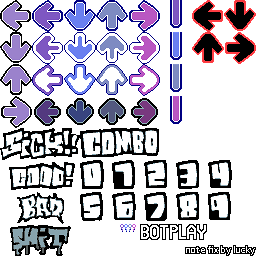
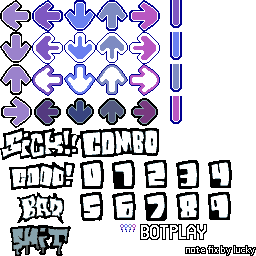
majin notes fixed

diff --git a/src/stage/stage.c b/src/stage/stage.c
@@ -883,7 +883,7 @@ static void Stage_DrawNotes(void)
 							note_dst.h = -note_dst.h;
 						}
 						
-                        if (stage.stage_id == StageId_Endless) //add steps later
+                        if ((stage.stage_id == StageId_Endless) && (stage.song_step >= 900))
                             Stage_DrawTex(&stage.tex_hudmajin, &note_src, &note_dst, stage.bump);
                         else
 				            Stage_DrawTex(&stage.tex_hud0, &note_src, &note_dst, stage.bump);
@@ -911,7 +911,7 @@ static void Stage_DrawNotes(void)
 						if (stage.prefs.downscroll)
 							note_dst.y = -note_dst.y - note_dst.h;
 						
-                        if (stage.stage_id == StageId_Endless) //add steps later
+                        if ((stage.stage_id == StageId_Endless) && (stage.song_step >= 900))
                             Stage_DrawTex(&stage.tex_hudmajin, &note_src, &note_dst, stage.bump);
                         else
 				            Stage_DrawTex(&stage.tex_hud0, &note_src, &note_dst, stage.bump);
@@ -938,7 +938,7 @@ static void Stage_DrawNotes(void)
 				if (stage.prefs.downscroll)
 					note_dst.y = -note_dst.y - note_dst.h;
                 
-                if (stage.stage_id == StageId_Endless) //add steps later
+                if ((stage.stage_id == StageId_Endless) && (stage.song_step >= 900))
                     Stage_DrawTex(&stage.tex_hudmajin, &note_src, &note_dst, stage.bump);
                 else
 				    Stage_DrawTex(&stage.tex_hud0, &note_src, &note_dst, stage.bump);
@@ -955,7 +955,7 @@ static void Stage_DrawNotes(void)
 					note_dst.y -= FIXED_DEC(6,1);
 					note_dst.h >>= 2;
 					
-                    if (stage.stage_id == StageId_Endless) //add steps later
+                    if ((stage.stage_id == StageId_Endless) && (stage.song_step >= 900))
                         Stage_DrawTex(&stage.tex_hudmajin, &note_src, &note_dst, stage.bump);
                     else
 				        Stage_DrawTex(&stage.tex_hud0, &note_src, &note_dst, stage.bump);
@@ -978,7 +978,7 @@ static void Stage_DrawNotes(void)
 						note_dst.h = note_dst.h * 3 / 2;
 					}
 					
-                    if (stage.stage_id == StageId_Endless) //add steps later
+                    if ((stage.stage_id == StageId_Endless) && (stage.song_step >= 900))
                         Stage_DrawTex(&stage.tex_hudmajin, &note_src, &note_dst, stage.bump);
                     else
 				        Stage_DrawTex(&stage.tex_hud0, &note_src, &note_dst, stage.bump);
@@ -1025,7 +1025,7 @@ static void Stage_DrawNotes(void)
 				if (stage.prefs.downscroll)
 					note_dst.y = -note_dst.y - note_dst.h;
 				
-                if (stage.stage_id == StageId_Endless) //add steps later
+                if ((stage.stage_id == StageId_Endless) && (stage.song_step >= 900))
                     Stage_DrawTex(&stage.tex_hudmajin, &note_src, &note_dst, stage.bump);
                 else
 				    Stage_DrawTex(&stage.tex_hud0, &note_src, &note_dst, stage.bump);
@@ -1555,10 +1555,10 @@ void Stage_Tick(void)
 				RECT bot_src = {140, 224, 67, 16};
 				RECT_FIXED bot_dst = {FIXED_DEC(-bot_src.w / 2,1), FIXED_DEC(-58,1), FIXED_DEC(bot_src.w,1), FIXED_DEC(bot_src.h,1)};
 
-                if (stage.stage_id == StageId_Endless) //add steps later
-                    Stage_DrawTex(&stage.tex_hudmajin, &note_src, &note_dst, stage.bump);
+                if ((stage.stage_id == StageId_Endless) && (stage.song_step >= 900))
+                    Stage_DrawTex(&stage.tex_hudmajin, &bot_src, &bot_dst, stage.bump);
                 else
-				    Stage_DrawTex(&stage.tex_hud0, &note_src, &note_dst, stage.bump);
+				    Stage_DrawTex(&stage.tex_hud0, &bot_src, &bot_dst, stage.bump);
 			}
 			
 			//Clear per-frame flags
@@ -1874,7 +1874,7 @@ void Stage_Tick(void)
 					note_dst.y = -note_dst.y - note_dst.h;
 				
 				Stage_DrawStrum(i, &note_src, &note_dst);
-                if (stage.stage_id == StageId_Endless) //add steps later
+                if ((stage.stage_id == StageId_Endless) && (stage.song_step >= 900))
                     Stage_DrawTex(&stage.tex_hudmajin, &note_src, &note_dst, stage.bump);
                 else
 				    Stage_DrawTex(&stage.tex_hud0, &note_src, &note_dst, stage.bump);
@@ -1887,7 +1887,7 @@ void Stage_Tick(void)
 					note_dst.y = -note_dst.y - note_dst.h;
 				Stage_DrawStrum(i | 4, &note_src, &note_dst);
 				
-                if (stage.stage_id == StageId_Endless) //add steps later
+                if ((stage.stage_id == StageId_Endless) && (stage.song_step >= 900))
                     Stage_DrawTex(&stage.tex_hudmajin, &note_src, &note_dst, stage.bump);
                 else
 				    Stage_DrawTex(&stage.tex_hud0, &note_src, &note_dst, stage.bump);
